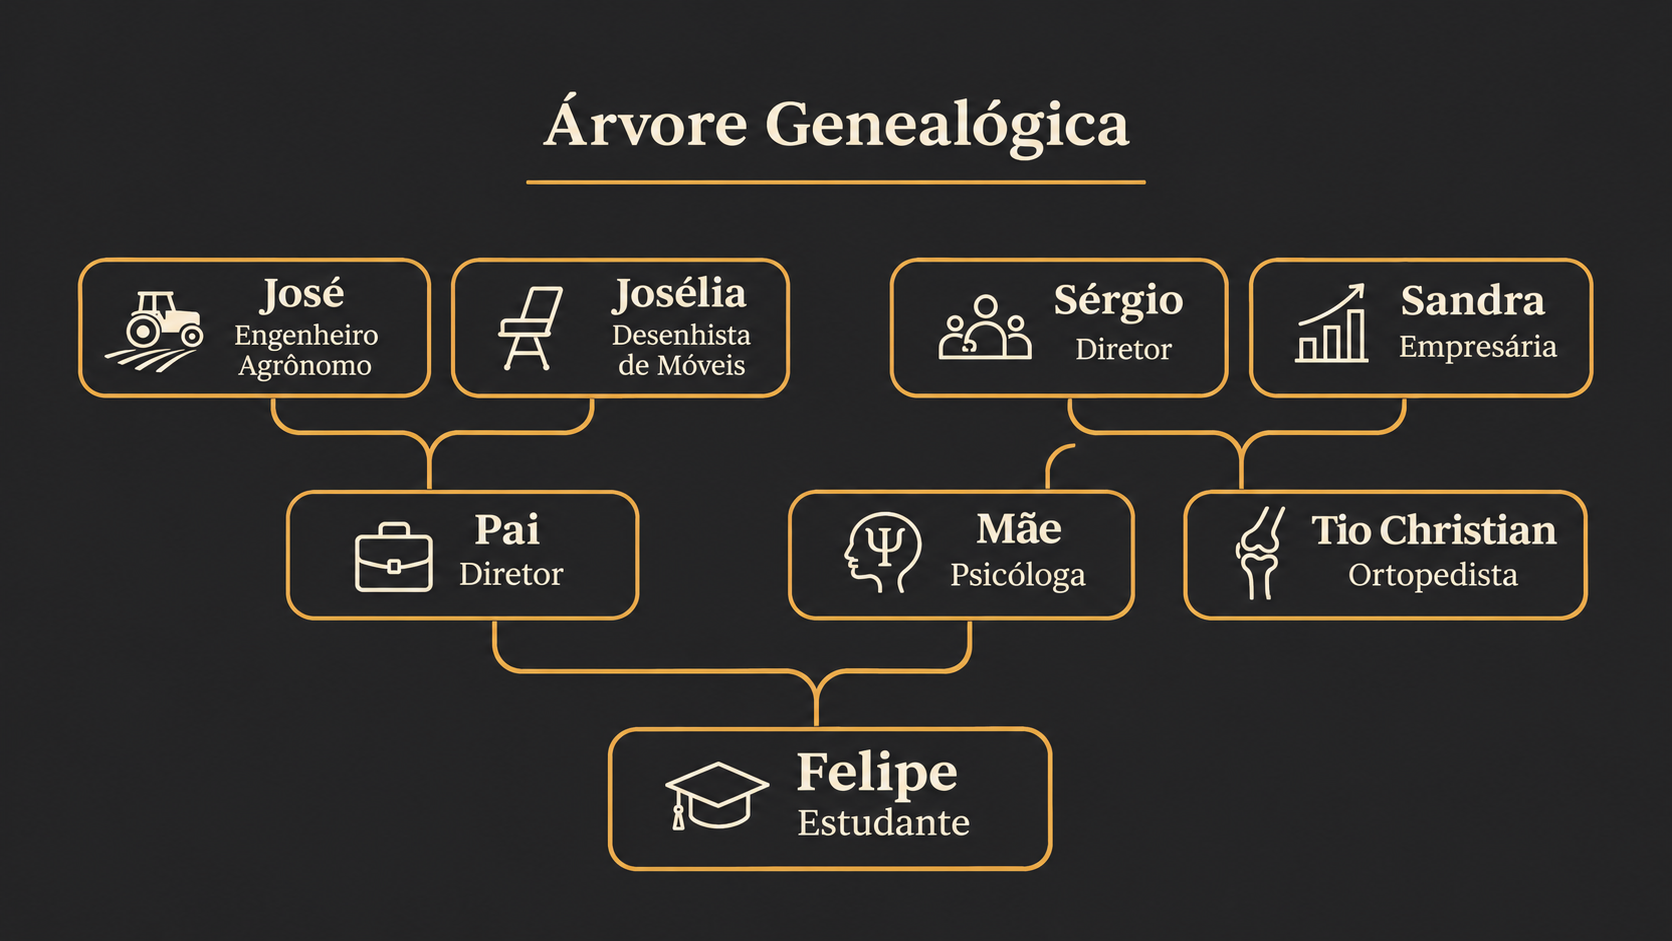
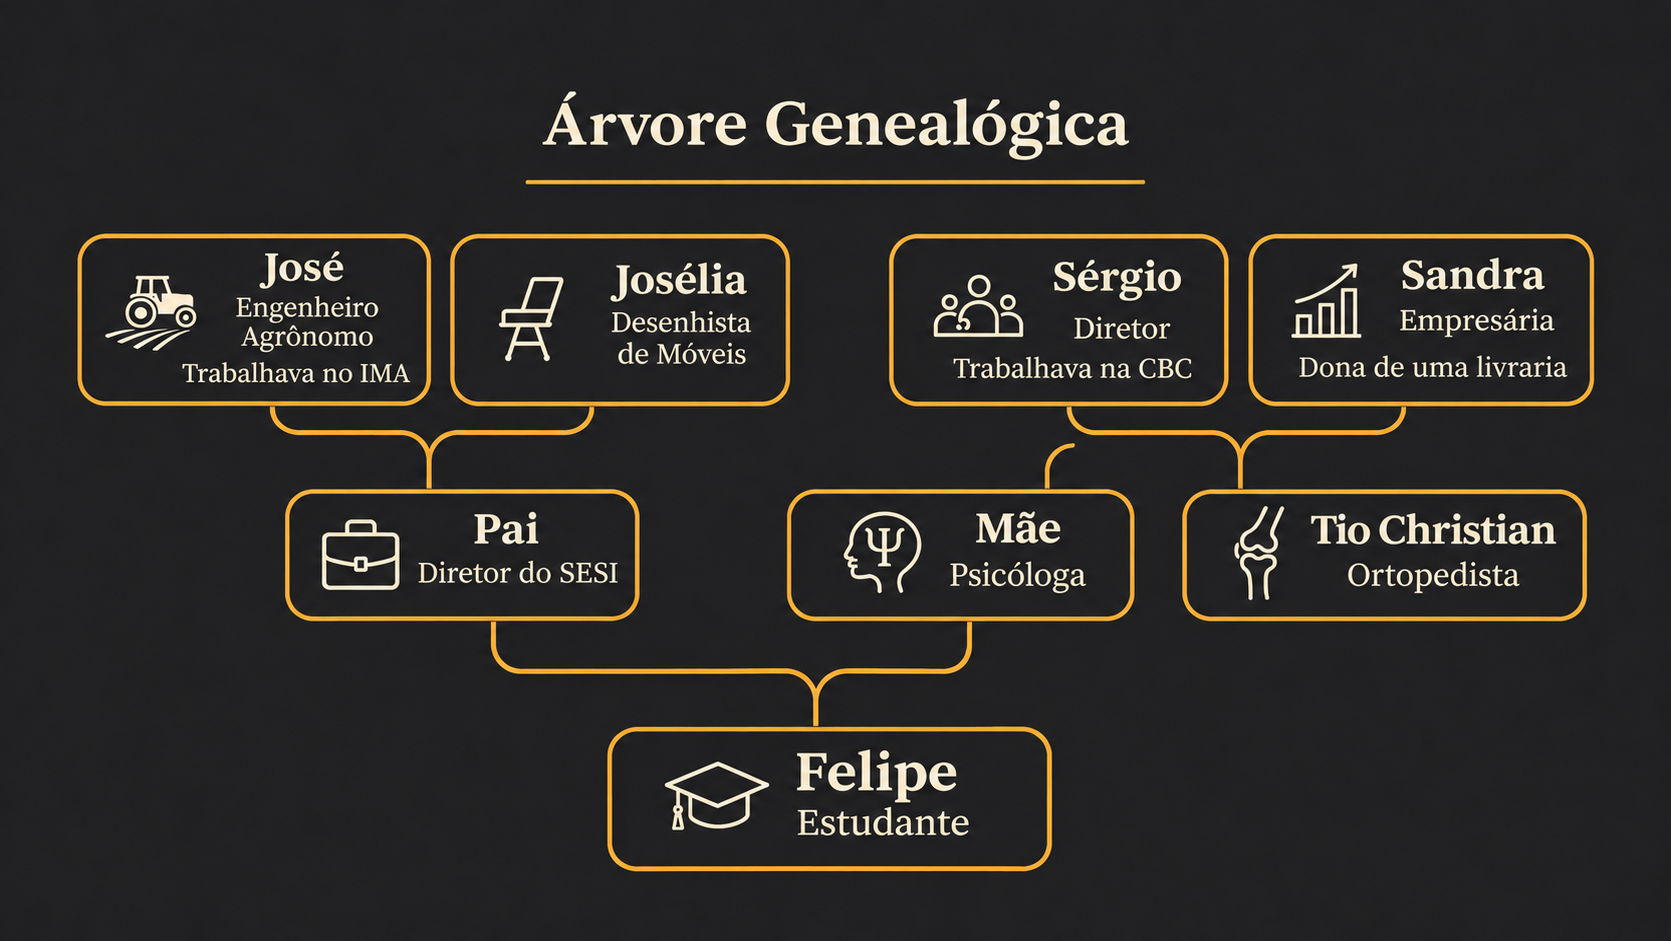
Incorpora os locais de trabalho à imagem da árvore

diff --git a/index.html b/index.html
@@ -904,10 +904,6 @@ footer {
 .gb-arvore img { display:block; width:100%; height:auto; border-radius:8px; }
 .gb-arvore .gb-title { min-height:0; margin:0; }
 .gb-arvore .senai-button { justify-self:start; font-family:var(--font-body); font-size:.85rem; }
-.gb-family-work { font: .9rem/1.6 var(--font-body); color: #2b2d27; }
-.gb-family-work h4 { margin: 0 0 .4rem; font: 600 1rem/1.3 var(--font-head); }
-.gb-family-work ul { margin: 0; padding-left: 1.2rem; }
-.gb-family-work li + li { margin-top: .35rem; }
 </style>
 </head>
 <body>
@@ -1470,15 +1466,6 @@ footer {
           <img src="assets/arvore-genealogica.png" alt="Árvore genealógica com as profissões dos avós, pais e tio de Felipe, identificado como estudante" width="1672" height="941">
         </a>
         <a class="senai-button" href="assets/arvore-genealogica.png" target="_blank" rel="noopener">Ampliar imagem</a>
-        <div class="gb-family-work">
-          <h4>Atuação profissional</h4>
-          <ul>
-            <li><strong>José</strong> — Engenheiro agrônomo, trabalhava no IMA.</li>
-            <li><strong>Sérgio</strong> — Diretor, trabalhava na CBC.</li>
-            <li><strong>Sandra</strong> — Empresária, dona de uma livraria.</li>
-            <li><strong>Meu pai</strong> — Diretor do SESI.</li>
-          </ul>
-        </div>
       </article>`;
       montarDots(entregas.length, indiceAtual);
       return;
